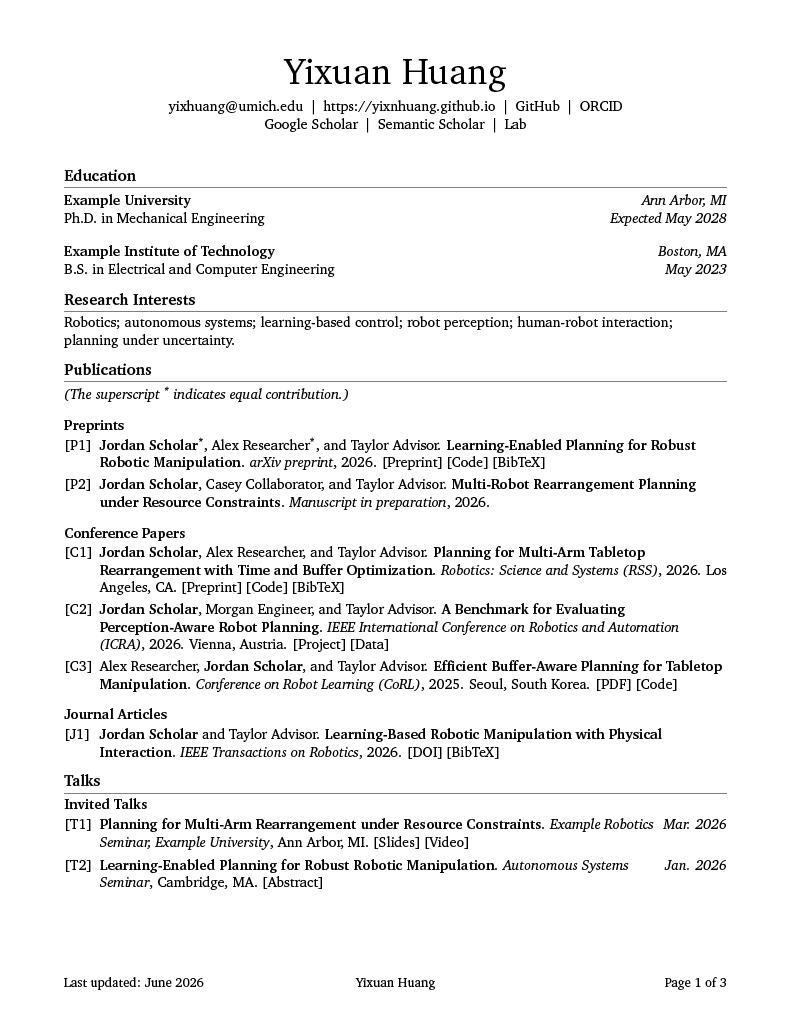
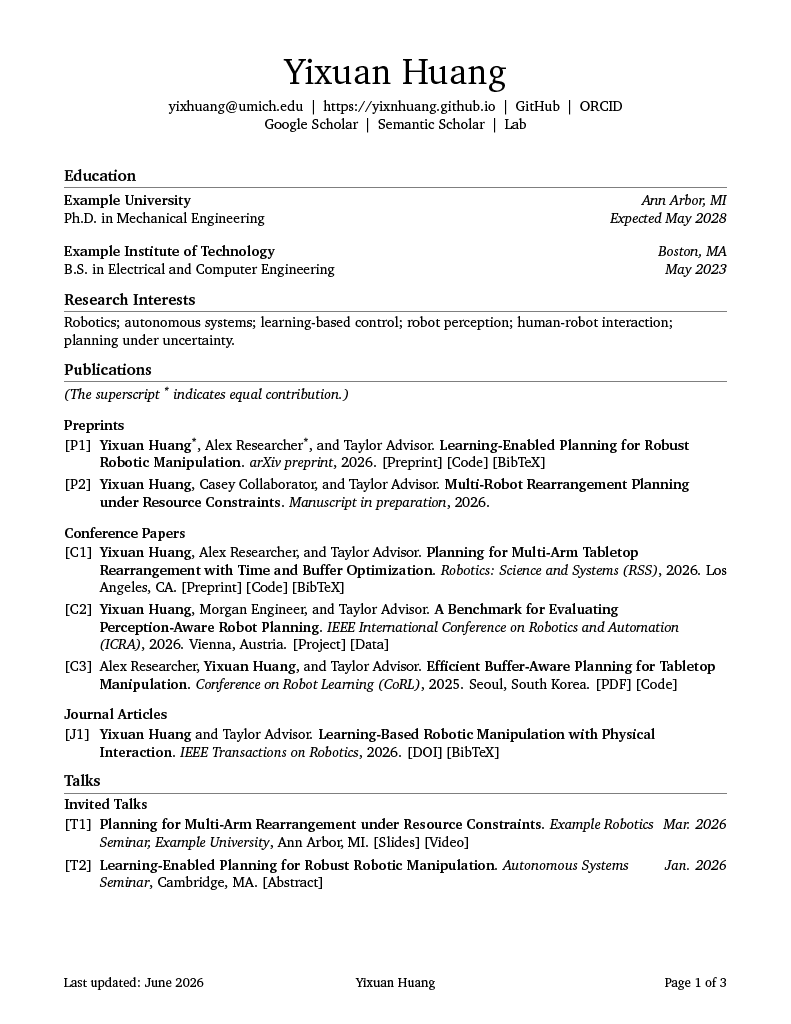
docs: update example snapshots

diff --git a/examples/academic-cv/sections/publications.tex b/examples/academic-cv/sections/publications.tex
@@ -6,7 +6,7 @@
 
 \VectraPublicationEntry
     {P1}
-    {\textbf{Jordan Scholar}\textsuperscript{*}, Alex Researcher\textsuperscript{*}, and Taylor Advisor}
+    {\textbf{Yixuan Huang}\textsuperscript{*}, Alex Researcher\textsuperscript{*}, and Taylor Advisor}
     {Learning-Enabled Planning for Robust Robotic Manipulation}
     {arXiv preprint}
     {2026}
@@ -19,7 +19,7 @@
 
 \VectraPublicationEntry
     {P2}
-    {\textbf{Jordan Scholar}, Casey Collaborator, and Taylor Advisor}
+    {\textbf{Yixuan Huang}, Casey Collaborator, and Taylor Advisor}
     {Multi-Robot Rearrangement Planning under Resource Constraints}
     {Manuscript in preparation}
     {2026}
@@ -30,7 +30,7 @@
 
 \VectraPublicationEntry
     {C1}
-    {\textbf{Jordan Scholar}, Alex Researcher, and Taylor Advisor}
+    {\textbf{Yixuan Huang}, Alex Researcher, and Taylor Advisor}
     {Planning for Multi-Arm Tabletop Rearrangement with Time and Buffer Optimization}
     {Robotics: Science and Systems (RSS)}
     {2026}
@@ -43,7 +43,7 @@
 
 \VectraPublicationEntry
     {C2}
-    {\textbf{Jordan Scholar}, Morgan Engineer, and Taylor Advisor}
+    {\textbf{Yixuan Huang}, Morgan Engineer, and Taylor Advisor}
     {A Benchmark for Evaluating Perception-Aware Robot Planning}
     {IEEE International Conference on Robotics and Automation (ICRA)}
     {2026}
@@ -55,7 +55,7 @@
 
 \VectraPublicationEntry
     {C3}
-    {Alex Researcher, \textbf{Jordan Scholar}, and Taylor Advisor}
+    {Alex Researcher, \textbf{Yixuan Huang}, and Taylor Advisor}
     {Efficient Buffer-Aware Planning for Tabletop Manipulation}
     {Conference on Robot Learning (CoRL)}
     {2025}
@@ -69,7 +69,7 @@
 
 \VectraPublicationEntry
     {J1}
-    {\textbf{Jordan Scholar} and Taylor Advisor}
+    {\textbf{Yixuan Huang} and Taylor Advisor}
     {Learning-Based Robotic Manipulation with Physical Interaction}
     {IEEE Transactions on Robotics}
     {2026}
